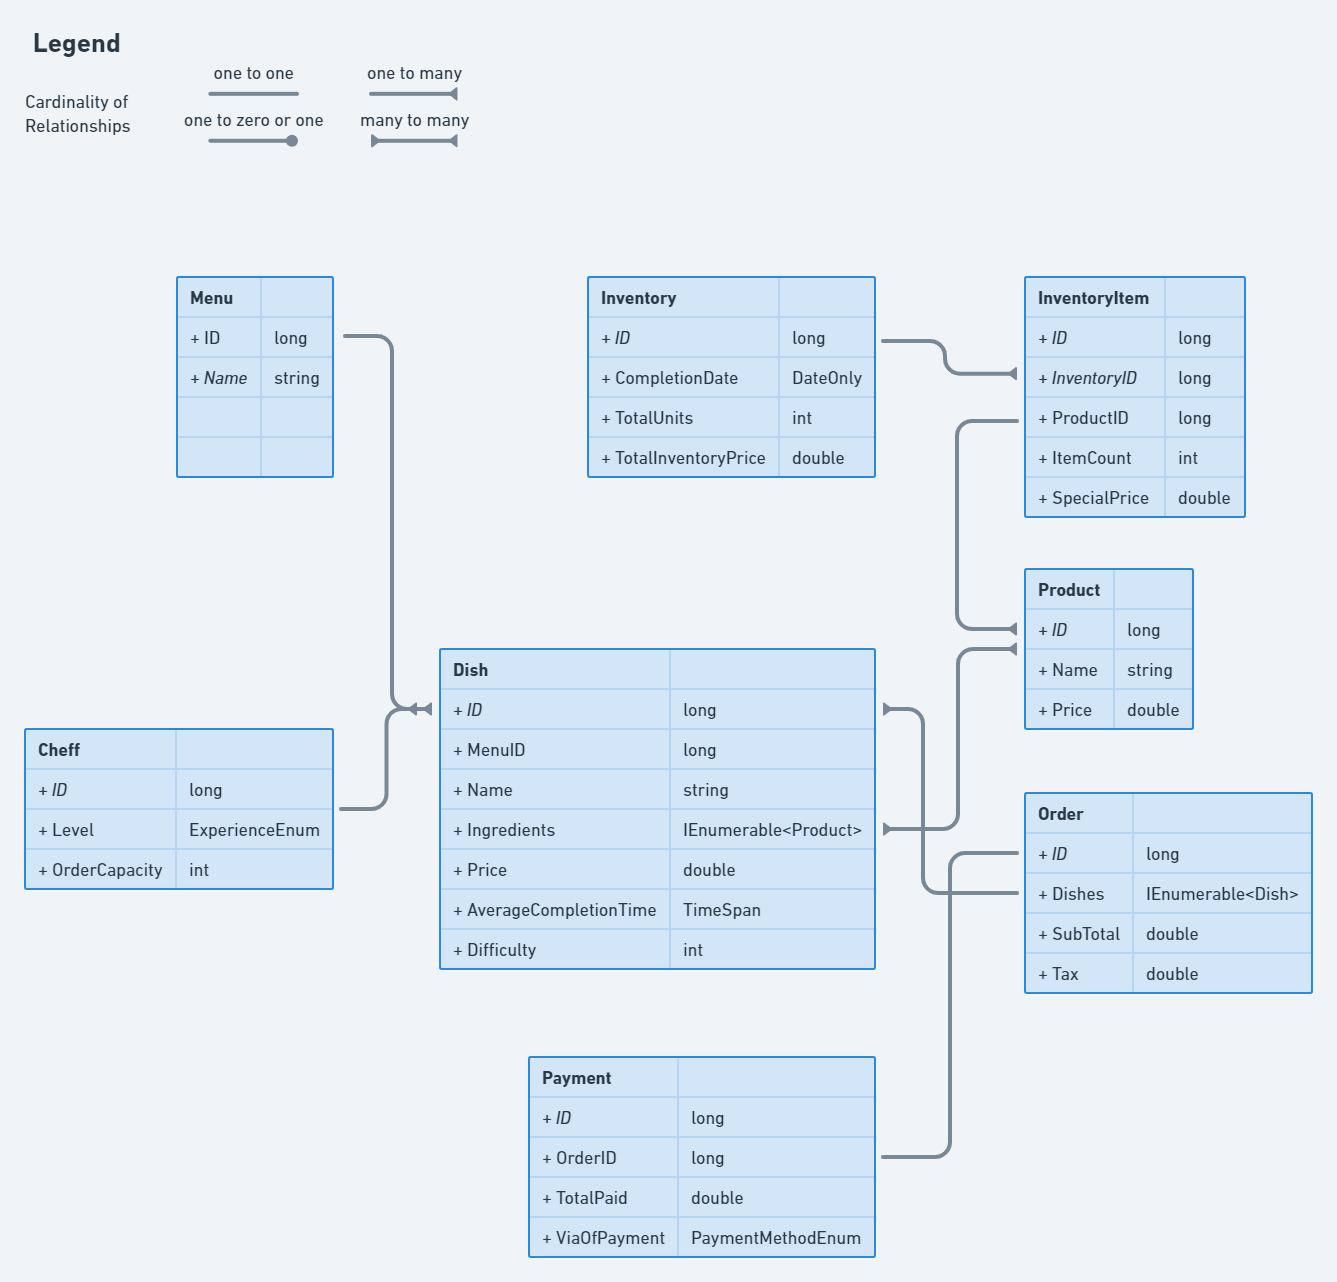
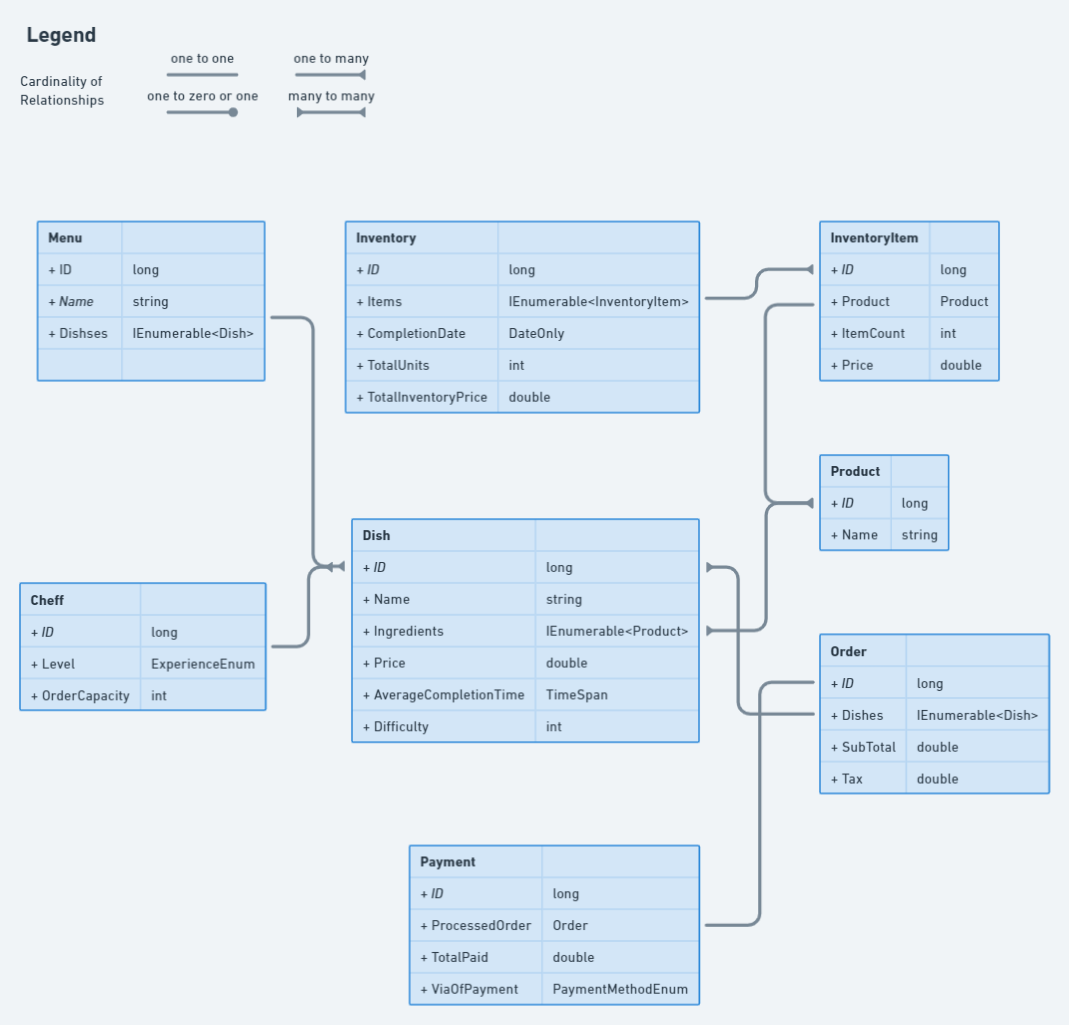
(fix): The relation of the models is now correctly done

diff --git a/src/Domain/Dish.cs b/src/Domain/Dish.cs
@@ -1,4 +1,4 @@
 namespace Domain;
 
 //This record represent a Dish: Lasagna, Seafood Paella, etc, while provide an average completion for the dish and a Difficulty.
-public record Dish(long ID, string Name, long MenuID, IEnumerable<Product> Ingredients, double Price, TimeSpan AverageCompletionTime, int Difficulty);
+public record Dish(long ID, string Name, IEnumerable<Product> Ingredients, double Price, TimeSpan AverageCompletionTime, int Difficulty);

diff --git a/src/Domain/InventoryItem.cs b/src/Domain/InventoryItem.cs
@@ -1,4 +1,4 @@
 namespace Domain;
 
 //This model handle the detail of an Inventory. Additonally, will be the join between the Products and the Inventory.
-public record InventoryItem(long ID, long InventoryID, long ProductID, int ItemCount, double SpecialPrice);
+public record InventoryItem(long ID, Product Product, int ItemCount, double Price);

diff --git a/src/Domain/Inventory.cs b/src/Domain/Inventory.cs
@@ -1,4 +1,4 @@
 namespace Domain;
 
 //This model will handle the information about prodcut stock.
-public record Inventory(long ID, DateOnly CompletionDate, int ToTalUnits, double TotalInventoryPrice);
+public record Inventory(long ID, IEnumerable<InventoryItem> items, DateOnly CompletionDate, int ToTalUnits, double TotalInventoryPrice);

diff --git a/src/Domain/Payment.cs b/src/Domain/Payment.cs
@@ -1,6 +1,6 @@
 namespace Domain;
 
-public record Payment(long ID, long OrderID, double TotalPaid, PaymentMethod ViaOfPayment);
+public record Payment(long ID, Order ProcessedOrder, double TotalPaid, PaymentMethod ViaOfPayment);
 
 //Provide the supported payment methods.
 public enum PaymentMethod

diff --git a/src/Domain/Menu.cs b/src/Domain/Menu.cs
@@ -2,4 +2,4 @@ namespace Domain;
 
 //This record will hold the details about the Menu.
 //The main use is to create menu categories like: Vegetarian, Mediterranean, etc.
-public record Menu(long ID, string Name);
+public record Menu(long ID, string Name, IEnumerable<Dish> Dishes);

diff --git a/src/Domain/Product.cs b/src/Domain/Product.cs
@@ -1,4 +1,4 @@
 namespace Domain;
 
 //This model provides the more atomic unit of the inventory.
-public record Product(long ID, string Name, double Price);
+public record Product(long ID, string Name);
